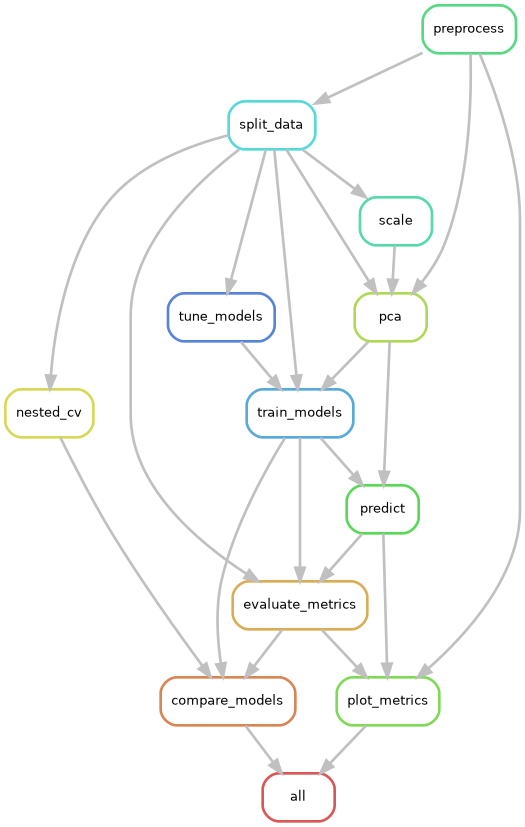
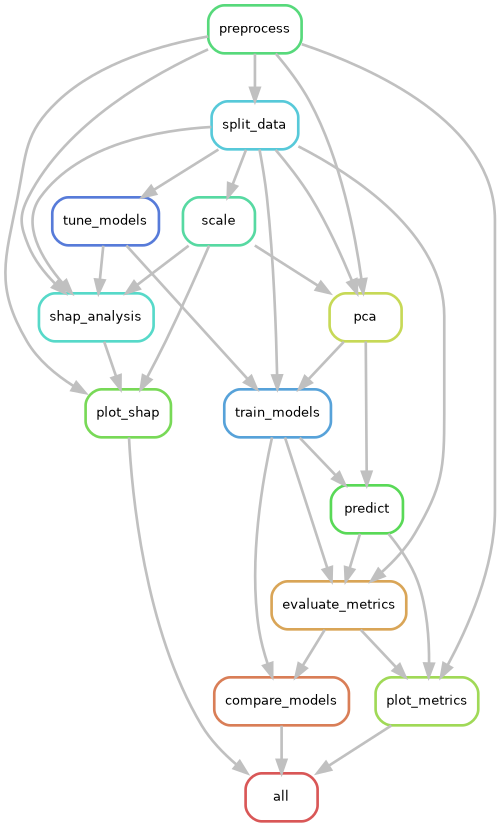
refactor: split shap analysis and plot into separate scripts

diff --git a/scripts/shap_analysis.py b/scripts/shap_analysis.py
@@ -1,6 +1,6 @@
 """
 SHAP analysis on original (scaled) features, without PCA, so that SHAP
-values mpa back to gene names.
+values map back to gene names.
 """
 import pandas as pd
 import json, shap
@@ -9,7 +9,6 @@ from sklearn.ensemble import RandomForestClassifier
 from sklearn.linear_model import LogisticRegression
 from sklearn.svm import SVC
 from xgboost import XGBClassifier
-import matplotlib.pyplot as plt
 import sys
 sys.stdout = open(snakemake.log[0], "w")
 sys.stderr = sys.stdout
@@ -28,9 +27,6 @@ with open(snakemake.input.best_params) as f:
     best_params = json.load(f)
 best_params["random_state"] = snakemake.params.seed
 
-# get gene names
-gene_names = X_train_scaled.columns.tolist()
-
 MODELS = {
     "randomforest": RandomForestClassifier,
     "logistic_regression": LogisticRegression,
@@ -43,10 +39,10 @@ model_name = snakemake.wildcards.model
 
 model = MODELS[model_name](**best_params)
 
-# retrain model with scaled data (without PCA)
+# retrain model with scaled data (without PCA) so that SHAP values map to gene names
 model.fit(X_train_scaled, y_train)
 
-# chose right SHAP explainer
+# choose correct SHAP explainer
 if snakemake.wildcards.model in ["randomforest", "xgboost"]:
     explainer = shap.TreeExplainer(model)
     shap_values = explainer.shap_values(X_test_scaled)
@@ -56,51 +52,26 @@ elif snakemake.wildcards.model == "logistic_regression":
     shap_values = explainer.shap_values(X_test_scaled)
 
 elif snakemake.wildcards.model == "svm":
-    background = shap.sample(X_train_scaled, 25)
+    # SVM has no native SHAP support; KernelExplainer approximates values
+    # by masking features (model-agnostic). background = reference baseline,
+    # nsamples = feature combinations sampled per observation.    
+    background = shap.sample(X_train_scaled, 50)
     explainer = shap.KernelExplainer(model.predict_proba, background)
     shap_values = explainer.shap_values(X_test_scaled, nsamples=100)
 
-
-shap_mean = np.abs(np.array(shap_values)).mean(axis=0)
-
-if isinstance(shap_values, np.ndarray) and shap_values.ndim == 3:
+# create list with shap_values (different formats for different Explainer)
+# normalize shap_values to a list of 2D arrays, one per class.
+# different explainers return different formats (list or 3D array)
+if isinstance(shap_values, list):
+    shap_values_list = shap_values
+elif shap_values.ndim == 3:
     shap_values_list = [shap_values[:, :, i] for i in range(shap_values.shape[2])]
 else:
-    shap_values_list = shap_values
+    raise ValueError(f"Unexpected shap_values shape: {shap_values.shape} for model {model_name}")
 
-# summary plot
-shap.summary_plot(
-    shap_values_list,          
-    X_test_scaled,
-    plot_type="bar",
-    class_names=list(label_mapping.values()),
-    show=False
-)
-plt.savefig(snakemake.output.shap_summary, dpi=150, bbox_inches="tight")
-plt.close()
+np.save(snakemake.output.shap_values, np.stack(shap_values_list))
 
-for i in range(len(inv_map)):
-    name = inv_map[i]
-    shap.summary_plot(shap_values_list[i], X_test_scaled,
-                      max_display=20, show=False)
-    plt.title(f"SHAP – {name}")
-    plt.savefig(f"results/shap/{model_name}_{name}_beeswarm.png",
-                dpi=150, bbox_inches="tight")
-    plt.close()
-
-for path, i in zip(snakemake.output.beeswarm, inv_map):
-    name = inv_map[i]
-    shap.summary_plot(
-        shap_values_list[i], 
-        X_test_scaled, 
-        max_display=20, 
-        show=False
-        )
-    plt.title(f"SHAP - {name}")
-    plt.savefig(path, dpi=150, bbox_inches="tight")  
-    plt.close()
-
-# top Gene
+# save top 20 genes
 stacked = np.stack(shap_values_list, axis=0)   
 mean_abs = np.abs(stacked).mean(axis=(0, 1))
 pd.DataFrame({
@@ -108,18 +79,3 @@ pd.DataFrame({
     "mean_abs_shap": mean_abs
 }).sort_values("mean_abs_shap", ascending=False).head(20)\
   .to_csv(snakemake.output.top_genes, index=False)
-
-for i, name in zip(range(len(inv_map)), inv_map.values()):
-    mean_per_gene = np.abs(shap_values_list[i]).mean(axis=0)  # (n_features,)
-    top_idx = np.argsort(mean_per_gene)[-20:]                 # Top 20
-
-    fig, ax = plt.subplots(figsize=(8, 6))
-    ax.barh(
-        [gene_names[j] for j in top_idx],
-        mean_per_gene[top_idx]
-    )
-    ax.set_xlabel("mean |SHAP value|")
-    ax.set_title(f"Top Genes - {name}")
-    plt.tight_layout()
-    plt.savefig(f"results/shap/{model_name}_{name}_barplot.png", dpi=150)
-    plt.close()

diff --git a/scripts/plot_shap.py b/scripts/plot_shap.py
@@ -1,0 +1,61 @@
+import pandas as pd
+import json, shap
+import numpy as np
+import matplotlib.pyplot as plt
+import sys
+sys.stdout = open(snakemake.log[0], "w")
+sys.stderr = sys.stdout
+
+X_test_scaled = pd.read_csv(snakemake.input.X_test_scaled, index_col=0)
+shap_values_arr = np.load(snakemake.input.shap_values)
+shap_values_list = [shap_values_arr[i] for i in range(shap_values_arr.shape[0])]
+
+# load mapping and decode
+with open(snakemake.input.label_mapping) as f:
+    label_mapping = json.load(f)
+inv_map = {int(k): v for k, v in label_mapping.items()}
+
+# summary plot
+shap.summary_plot(
+    shap_values_list,          
+    X_test_scaled,
+    plot_type="bar",
+    class_names=[inv_map[i] for i in sorted(inv_map)],
+    show=False
+)
+plt.savefig(snakemake.output.shap_summary, dpi=150, bbox_inches="tight")
+plt.close()
+
+# beeswarm plots
+for path, i in zip(snakemake.output.beeswarm, sorted(inv_map)):
+    name = inv_map[i]
+    shap.summary_plot(
+        shap_values_list[i], 
+        X_test_scaled, 
+        max_display=20, 
+        show=False
+        )
+    plt.title(f"SHAP - {name}")
+    plt.savefig(path, dpi=150, bbox_inches="tight")  
+    plt.close()
+
+# get gene names
+gene_names = X_test_scaled.columns.tolist()
+model_name = snakemake.wildcards.model
+
+# top Gene barplot
+for path, i in zip(snakemake.output.barplot, sorted(inv_map)):
+    name = inv_map[i]
+    mean_per_gene = np.abs(shap_values_list[i]).mean(axis=0)  
+    top_idx = np.argsort(mean_per_gene)[-20:]    
+
+    fig, ax = plt.subplots(figsize=(8, 6))
+    ax.barh(
+        [gene_names[j] for j in top_idx],
+        mean_per_gene[top_idx]
+    )
+    ax.set_xlabel("mean |SHAP value|")
+    ax.set_title(f"Top Genes - {name}")
+    plt.tight_layout()
+    plt.savefig(path, dpi=150)
+    plt.close()

diff --git a/readme.md b/readme.md
@@ -7,6 +7,7 @@ This project demonstrates a fully reproducible RNA-seq analysis pipeline using S
 - automated preprocessing, PCA and model training pipeline
 - training and evaluation of multiple machine learning models
 - optional hyperparameter tuning via GridSearchCV
+- SHAP-based feature importance for model interpretability
 - optional nested cross-validation for unbiased model evaluation
 - automated and reproducible pipeline execution
 
@@ -61,19 +62,33 @@ The models are compared across the following metrics using a One-vs-Rest strateg
 ### Nested Cross-Validation
 In addition to the standard train/test evaluation, the pipeline optionally supports nested cross-validation (nested CV) for a more robust and less biased estimate of generalisation performance. Nested CV uses an outer loop to estimate test performance and an inner loop for hyperparameter tuning, preventing information leakage between model selection and evaluation. This is particularly useful when comparing models on a limited dataset, as it provides a more realistic estimate of how well each model would generalise to unseen data. Nested CV can be enabled in the config file via `run_nested_cv: true`.
 
+### SHAP Feature Importance
+To improve interpretability, SHAP (SHapley Additive exPlanations) values are computed for each model. The analysis is performed on the original scaled features (without PCA) to preserve gene names. Per-class beeswarm and bar plots highlight the most influential genes for each cancer type.
+**Note:** For SHAP analysis, models are retrained on scaled features 
+without PCA to ensure SHAP values map directly to genes rather than principal components.
+
 ### Rule graph of Snakemake workflow
 ![DAG](plots/rulegraph.png)
 
 ## Results
-After hyperparameter tuning, all models achieved strong performance across all metrics. Logistic Regression achieved the highest performance on the hold-out test set (accuracy 0.994, Macro F1 0.990), closely followed by SVM (accuracy 0.981). Random Forest and XGBoost performed slightly below, though all models exceeded 0.96 across all metrics. Nested cross-validation F1 scores (see [Nested Cross-Validation](#nested-cross-validation)) are closely aligned with hold-out performance across all models, suggesting that the results are robust and not an artefact of a favourable train/test split. The high performance across all models reflects the strong separability of the five cancer types in gene expression space, consistent with the distinct cluster structure visible in the PCA plot. As this is a single dataset without external validation, results should be interpreted with caution.
 
 ### PCA of Gene Expression Profiles
-![PCA](plots/pca_plot.png)
-
 Despite PC1 and PC2 explaining only 10.0% and 8.1% of the total variance respectively, the five cancer types form clearly distinct clusters, indicating strong biological signal in the data.
 
+![PCA](plots/pca_plot.png)
+
 ### Model Performance Comparison
+After hyperparameter tuning, all models achieved strong performance across all metrics. Logistic Regression achieved the highest performance on the hold-out test set (accuracy 0.994, Macro F1 0.990), closely followed by SVM (accuracy 0.981). Random Forest and XGBoost performed slightly below, though all models exceeded 0.96 across all metrics. Nested cross-validation F1 scores (see [Nested Cross-Validation](#nested-cross-validation)) are closely aligned with hold-out performance across all models, suggesting that the results are robust and not an artefact of a favourable train/test split. The high performance across all models reflects the strong separability of the five cancer types in gene expression space, consistent with the distinct cluster structure visible in the PCA plot. As this is a single dataset without external validation, results should be interpreted with caution.
+
 ![Heatmap](plots/heatmap.png)
+
+### SHAP Feature Importance
+
+The SHAP summary plot shows the most influential genes across all five cancer types. gene_17801 is the strongest predictor for BRCA, while gene_15896 dominates KIRC classification.
+**Note:** Gene IDs will be mapped to HGNC gene names in a future update.
+
+![SHAP_summary](plots/logistic_regression_summary_plot.png)
+
 
 ## Limitations
 - **Single dataset without external validation:** All models are trained and evaluated on one dataset. Performance may not generalise to other cohorts or sequencing protocols.
@@ -86,7 +101,7 @@ Despite PC1 and PC2 explaining only 10.0% and 8.1% of the total variance respect
 
 Clone the repository and navigate to the project directory:
 ```bash
-git clone https://github.com/xx/rna-seq
+git clone https://github.com/shmuen/rna-seq
 cd rna-seq
 ```
 
@@ -103,6 +118,13 @@ tuning:
   enabled: true   # enable hyperparameter tuning via GridSearchCV
 
 run_nested_cv: true  # enable nested cross-validation for unbiased performance estimates
+```
+
+To run only specific models, adjust the `model` parameter in `config.yaml`:
+
+```yaml
+model: ["randomforest", "svm", "logistic_regression", "xgboost"]
+# to run a single model: model: ["randomforest"]
 ```
 
 ## References
